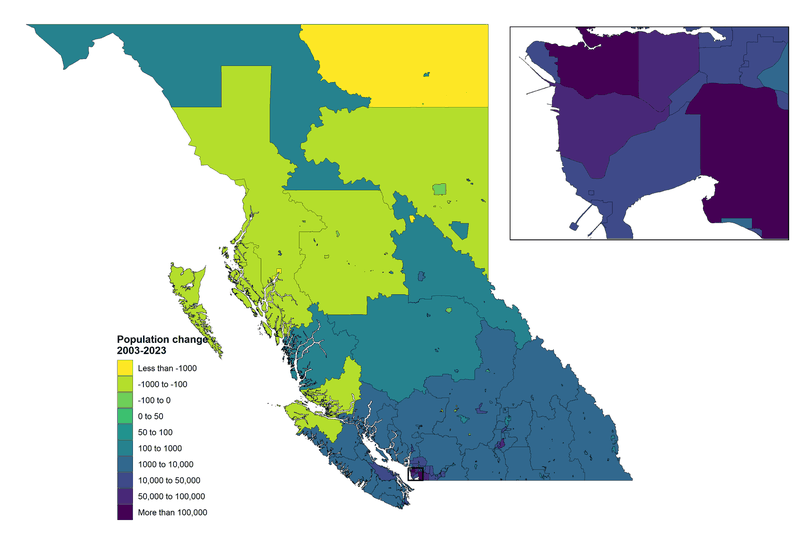
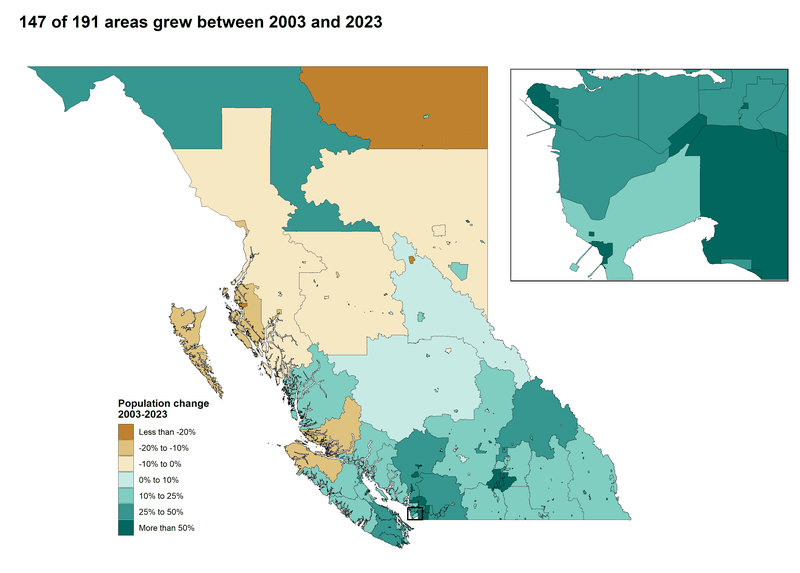
Add the BC electricity load project and refresh two others
- New project page and portfolio card for bc_electricity_load (Python):
  temperature response, weather-normalised annual load and next-day
  peak backtest, with findings, method, limits and data notes. Only
  charts and summaries are shown; BC Hydro's data is not openly
  licensed
- Population maps replaced with the new percent-change maps; page copy
  and findings updated (147 of 191 areas grew 2003-2023, 66 projected
  to shrink by 2046, Metro Vancouver's share of growth)
- Housing page adds the ownership cost drivers chart, its finding and
  a one-paragraph method note
- Phone-sized versions and thumbnails for the new figures; sitemap
  lists the new page

diff --git a/bc-electricity-load.html b/bc-electricity-load.html
@@ -1,0 +1,124 @@
+<!DOCTYPE html>
+<html lang="en">
+<head>
+  <meta charset="UTF-8" />
+  <meta name="viewport" content="width=device-width, initial-scale=1.0" />
+  <title>Electricity load, weather and next-day peaks in BC | Ata Malfuzi</title>
+  <meta name="description" content="How much of British Columbia's electricity load growth since 2002 comes from the weather, and how well next-day peaks can be forecast. Built in Python from public data." />
+  <meta property="og:title" content="Electricity load, weather and next-day peaks in BC | Ata Malfuzi" />
+  <meta property="og:description" content="How much of British Columbia's electricity load growth since 2002 comes from the weather, and how well next-day peaks can be forecast. Built in Python from public data." />
+  <meta property="og:type" content="website" />
+  <meta property="og:url" content="https://atamalfuzi.github.io/bc-electricity-load.html" />
+  <meta property="og:image" content="https://atamalfuzi.github.io/ata-malfuzi.jpg" />
+  <meta name="twitter:card" content="summary" />
+  <link rel="canonical" href="https://atamalfuzi.github.io/bc-electricity-load.html" />
+  <link rel="icon" href="favicon.svg" type="image/svg+xml" />
+  <link rel="stylesheet" href="style.css" />
+</head>
+<body>
+
+<a class="skip-link" href="#main">Skip to content</a>
+
+<nav class="nav">
+  <div class="nav-inner container">
+    <a href="index.html" class="nav-logo">Ata Malfuzi</a>
+    <button class="hamburger" id="hamburger" aria-label="Menu" aria-expanded="false" aria-controls="nav-links">
+      <span></span><span></span><span></span>
+    </button>
+    <ul class="nav-links" id="nav-links">
+      <li><a href="index.html">Home</a></li>
+      <li><a href="about.html">About</a></li>
+      <li><a href="projects.html" class="active" aria-current="page">Portfolio</a></li>
+      <li><a href="research.html">Research</a></li>
+      <li><a href="contact.html">Contact</a></li>
+    </ul>
+  </div>
+</nav>
+
+<div class="container layout inner">
+  <aside class="profile" aria-label="Profile">
+    <img class="avatar" src="img/avatar.jpg" alt="Ata Malfuzi" width="280" height="280" />
+    <p class="profile-name">Ata Malfuzi</p>
+    <p class="profile-bio">Economist and data scientist</p>
+    <ul class="profile-links">
+      <li><a href="mailto:atamalfuzi@gmail.com"><svg class="icon" viewBox="0 0 24 24" aria-hidden="true"><rect x="3.5" y="5.5" width="17" height="13" rx="1.5"/><path d="m4 7 8 6 8-6"/></svg><span>Email</span></a></li>
+      <li><a href="https://linkedin.com/in/ata-malfuzi" target="_blank"><svg class="icon" viewBox="0 0 24 24" aria-hidden="true"><rect x="3.5" y="3.5" width="17" height="17" rx="2.5"/><path d="M8 10.5v6M8 7.6v.1M11.5 16.5v-6M11.5 13c0-1.6 1-2.6 2.4-2.6s2.1 1 2.1 2.6v3.5"/></svg><span>LinkedIn</span></a></li>
+      <li><a href="https://github.com/atamalfuzi" target="_blank"><svg class="icon" viewBox="0 0 24 24" aria-hidden="true"><path d="m8.5 8-4 4 4 4M15.5 8l4 4-4 4M13.5 6l-3 12"/></svg><span>GitHub</span></a></li>
+      <li><a href="https://scholar.google.com/citations?user=DN48TO8AAAAJ" target="_blank"><svg class="icon" viewBox="0 0 24 24" aria-hidden="true"><path d="M2.5 9.5 12 5l9.5 4.5L12 14z"/><path d="M6.5 11.6V16c1.5 1.4 3.4 2 5.5 2s4-.6 5.5-2v-4.4"/></svg><span>Google Scholar</span></a></li>
+      <li><a href="https://econlaunch.ca/#mentoring-book" target="_blank"><svg class="icon" viewBox="0 0 24 24" aria-hidden="true"><rect x="3.5" y="5" width="17" height="15" rx="1.5"/><path d="M3.5 9.5h17M8 3v4M16 3v4"/></svg><span>Book a career chat</span></a></li>
+    </ul>
+    <ul class="profile-facts">
+      <li><svg class="icon" viewBox="0 0 24 24" aria-hidden="true"><path d="M12 21s-6-5.6-6-11a6 6 0 1 1 12 0c0 5.4-6 11-6 11z"/><circle cx="12" cy="10" r="2.2"/></svg><span>Vancouver, BC</span></li>
+      <li><svg class="icon" viewBox="0 0 24 24" aria-hidden="true"><rect x="3.5" y="7.5" width="17" height="12" rx="1.5"/><path d="M9 7.5V6a1.5 1.5 0 0 1 1.5-1.5h3A1.5 1.5 0 0 1 15 6v1.5M3.5 12.5h17"/></svg><span>Environment and Climate Change Canada</span></li>
+      <li><svg class="icon" viewBox="0 0 24 24" aria-hidden="true"><path d="M3 9.5 12 5l9 4.5M5 10.5v6.5M9.7 10.5v6.5M14.3 10.5v6.5M19 10.5v6.5M3.5 19.5h17"/></svg><span>SESIT Lab, University of Victoria</span></li>
+    </ul>
+  </aside>
+
+<main id="main">
+<article class="project">
+  <div class="page-top">
+    <a class="back" href="projects.html">Back to portfolio</a>
+    <h1>Electricity load, weather and next-day peaks in BC</h1>
+    <p class="lead">An independent look at British Columbia's electricity load since 2002, built from public data in Python. It asks how much of the growth comes from the weather, and how well tomorrow's peak can be forecast from what is known today.</p>
+    <div class="links-row"><a href="https://github.com/atamalfuzi/bc_electricity_load" target="_blank">Code on GitHub</a><a href="https://github.com/atamalfuzi/bc_electricity_load/blob/main/output/annual_load.csv" target="_blank">Annual table (CSV)</a><a href="https://github.com/atamalfuzi/bc_electricity_load/blob/main/output/backtest_summary.csv" target="_blank">Backtest table (CSV)</a></div>
+  </div>
+
+  <figure>
+    <img src="img/load-temperature-response.png" srcset="img/load-temperature-response-800.png 800w, img/load-temperature-response.png 1600w" sizes="(max-width: 860px) calc(100vw - 2.5rem), 816px" alt="Line chart of average workday load against daily mean temperature at Vancouver airport for 2002-2009, 2010-2017 and 2018-2026. Load rises as it gets colder in every period, and in 2018-2026 it also rises clearly on hot days." width="1600" height="1067" />
+    <figcaption>Average workday load by daily mean temperature at Vancouver airport, for three periods.</figcaption>
+  </figure>
+
+  <section class="section">
+    <h2>What it shows</h2>
+    <ul>
+      <li>Growth is structural, not weather. Weather-normalised load rose from 56.6 TWh in 2002 to 67.4 TWh in 2025 (+19%). Weather moved any single year by less than 0.8 TWh.</li>
+      <li>Cold drives load, and hot days now matter too. A day 1 °C colder at all four airports (below 18 °C) adds about 92 MW in 2018-2026, up from 78 MW in 2002-2009. A day 1 °C hotter (above 18 °C) adds about 193 MW, up from 91 MW. This fits the spread of air conditioning and heat pumps, though the data cannot show the cause.</li>
+      <li>Next-day peaks can be forecast to within about 2.3%. Over 2021 to September 2026, gradient boosting and a linear regression on the same inputs both missed the daily peak by 2.3% on average, against 5.4% for the peak a week earlier. The linear model does as well as the boosted trees, and the 80% intervals covered 78% of days.</li>
+    </ul>
+  </section>
+
+  <figure>
+    <img src="img/load-annual.png" srcset="img/load-annual-800.png 800w, img/load-annual.png 1600w" sizes="(max-width: 860px) calc(100vw - 2.5rem), 816px" alt="Line chart of BC annual electricity load, actual and weather-normalised, 2002 to 2025. The two lines track each other closely and rise from about 57 to 67 TWh." width="1600" height="978" loading="lazy" />
+    <figcaption>Annual load, actual and with each year's weather replaced by the average weather of all years, 2002-2025.</figcaption>
+  </figure>
+
+  <section class="section">
+    <h2>How it works</h2>
+    <p>Hourly load is turned into each day's average and peak. A least-squares regression of daily average load on a separate level for each year, heating and cooling degrees below and above 18 °C at the Vancouver, Victoria, Kamloops and Prince George airports (with separate effects for 2002-2009, 2010-2017 and 2018-2026), and calendar effects explains 96% of the daily variation. Each year's weather-normalised load replaces that year's weather effect with the effect of the average weather over 2002-2025.</p>
+    <p>The forecast test is a rolling-origin backtest: each year from 2021 to 2026 is forecast by models trained only on earlier years, using what is known the evening before. It compares the peak on the same day last week, a linear regression and gradient boosting. The 80% interval is the forecast plus or minus the 80th percentile of the errors the model made the year before.</p>
+  </section>
+
+  <figure>
+    <img src="img/load-forecast-backtest.png" srcset="img/load-forecast-backtest-800.png 800w, img/load-forecast-backtest.png 1600w" sizes="(max-width: 860px) calc(100vw - 2.5rem), 816px" alt="Two panels: forecast error by test year, about 2.3% for the linear regression and gradient boosting against about 5% for last week's peak; and daily peaks in winter 2025-26 with the forecast and its 80% interval." width="1600" height="733" loading="lazy" />
+    <figcaption>Next-day peak forecast error by test year, and winter 2025-26 forecasts with their 80% interval.</figcaption>
+  </figure>
+
+  <section class="section">
+    <h2>Limits</h2>
+    <ul>
+      <li>The backtest uses each day's actual temperatures, so it is optimistic. With the previous day's temperatures instead, the average error rises from 2.3% to 2.5%; a real day-ahead forecast would fall between the two.</li>
+      <li>Four airports stand in for the province, with no population weighting.</li>
+      <li>"Structural" is everything that is not weather: population and economic growth, the 2009 recession, the pandemic, industrial customers opening and closing, and electrification. The year levels do not separate these.</li>
+      <li>Days above 18 °C are rare in BC, and 2018-2026 includes the 2021 heat dome, so the hot-weather effects are less precise than the cold-weather ones.</li>
+    </ul>
+  </section>
+
+  <section class="section notes">
+    <h2>Data</h2>
+    <p>Hourly balancing authority load from BC Hydro's historical transmission data, 2002 to September 2026. BC Hydro's data is not openly licensed, so the repository and this page show only charts and summaries made from it. Daily mean temperatures at four airports from Government of Canada daily climate data. Analysis in Python with pandas and scikit-learn; code under the MIT licence.</p>
+    <p>Contains information licensed under the Open Government Licence - Canada.</p>
+  </section>
+</article>
+</main>
+</div>
+
+<footer class="footer">
+  <div class="container footer-inner">
+    <span>&copy; <span class="yr">2026</span> Ata Malfuzi, Vancouver</span>
+    <span>Economist and data scientist</span>
+  </div>
+</footer>
+
+<script src="main.js"></script>
+</body>
+</html>

diff --git a/bc-population-change.html b/bc-population-change.html
@@ -4,9 +4,9 @@
   <meta charset="UTF-8" />
   <meta name="viewport" content="width=device-width, initial-scale=1.0" />
   <title>Population change in BC municipalities | Ata Malfuzi</title>
-  <meta name="description" content="Maps of estimated (2003-2023) and projected (2023-2046) population change across British Columbia's municipalities, made in R from open data." />
+  <meta name="description" content="Maps of percent population change in every British Columbia municipality: estimated 2003-2023 and projected 2023-2046, made in R from open data." />
   <meta property="og:title" content="Population change in BC municipalities | Ata Malfuzi" />
-  <meta property="og:description" content="Maps of estimated (2003-2023) and projected (2023-2046) population change across British Columbia's municipalities, made in R from open data." />
+  <meta property="og:description" content="Maps of percent population change in every British Columbia municipality: estimated 2003-2023 and projected 2023-2046, made in R from open data." />
   <meta property="og:type" content="website" />
   <meta property="og:url" content="https://atamalfuzi.github.io/bc-population-change.html" />
   <meta property="og:image" content="https://atamalfuzi.github.io/ata-malfuzi.jpg" />
@@ -59,23 +59,33 @@
   <div class="page-top">
     <a class="back" href="projects.html">Back to portfolio</a>
     <h1>Population change in BC municipalities</h1>
-    <p class="lead">Maps of absolute population change across British Columbia's municipalities: estimated change from 2003 to 2023, and projected change from 2023 to 2046. Each map has an inset on Metro Vancouver, where most of the growth is.</p>
+    <p class="lead">Where has British Columbia's population grown, and where is it projected to shrink? These maps show the percent change in population for every municipality: estimated change from 2003 to 2023, and BC Stats' projection from 2023 to 2046. Each map has an inset on Metro Vancouver.</p>
     <div class="links-row"><a href="https://github.com/atamalfuzi/bc_pop_change_map" target="_blank">Code on GitHub</a></div>
   </div>
 
   <figure>
-    <img src="img/bc-population-2003-2023.png" srcset="img/bc-population-2003-2023-800.png 800w, img/bc-population-2003-2023.png 1600w" sizes="(max-width: 860px) calc(100vw - 2.5rem), 816px" alt="Map of British Columbia shading each municipality by estimated population change from 2003 to 2023, with a Metro Vancouver inset." width="1600" height="1067" />
-    <figcaption>Estimated population change by municipality, 2003-2023.</figcaption>
+    <img src="img/bc-population-2003-2023.png" srcset="img/bc-population-2003-2023-800.png 800w, img/bc-population-2003-2023.png 1600w" sizes="(max-width: 860px) calc(100vw - 2.5rem), 816px" alt="Map of British Columbia shading each municipality by percent population change from 2003 to 2023, brown for loss and teal for growth, with a Metro Vancouver inset. Most areas grew; losses are mostly small northern and coastal communities." width="1600" height="1147" />
+    <figcaption>Estimated percent change in population by municipality, 2003-2023.</figcaption>
   </figure>
 
+  <section class="section">
+    <h2>What it shows</h2>
+    <ul>
+      <li>Growth was widespread: 147 of 191 areas grew between 2003 and 2023. Langford more than doubled (+160%). Most of the areas that lost people are small communities in the north and along the coast.</li>
+      <li>Growth is still concentrated in absolute numbers: Metro Vancouver gained 61% of BC's added residents from 2003 to 2023 and is projected to gain 65% of them by 2046.</li>
+      <li>The projection is less even: 66 of 191 areas are projected to shrink by 2046, across most of the north and the central interior.</li>
+    </ul>
+  </section>
+
   <figure>
-    <img src="img/bc-population-2023-2046.png" srcset="img/bc-population-2023-2046-800.png 800w, img/bc-population-2023-2046.png 1600w" sizes="(max-width: 860px) calc(100vw - 2.5rem), 816px" alt="Map of British Columbia shading each municipality by projected population change from 2023 to 2046, with a Metro Vancouver inset." width="1600" height="1067" loading="lazy" />
-    <figcaption>Projected population change by municipality, 2023-2046.</figcaption>
+    <img src="img/bc-population-2023-2046.png" srcset="img/bc-population-2023-2046-800.png 800w, img/bc-population-2023-2046.png 1600w" sizes="(max-width: 860px) calc(100vw - 2.5rem), 816px" alt="Map of British Columbia shading each municipality by projected percent population change from 2023 to 2046, brown for loss and teal for growth, with a Metro Vancouver inset. Much of the north and central interior is projected to shrink." width="1600" height="1147" loading="lazy" />
+    <figcaption>Projected percent change in population by municipality, 2023-2046.</figcaption>
   </figure>
 
   <section class="section">
     <h2>How it was made</h2>
     <p>The script downloads the BC Sub-Provincial Population Estimates and Projections for municipalities (census subdivisions) and takes boundaries from the bcmaps package (2021 census subdivisions, clipped to the coastline).</p>
+    <p>Percent change is shown so that a small town and a big city read on the same scale; colours run brown for loss and teal for growth, centred on zero. Percentages swing more where few people live, as in the large unincorporated areas of the north.</p>
     <p>Areas outside municipalities are published as one "Unincorporated Areas" total per regional district, so the script merges those census subdivisions into one polygon per regional district before joining the data to the map.</p>
     <p>Made in R with sf, bcmaps, ggplot2 and cowplot; code under the MIT licence.</p>
   </section>

diff --git a/rent-and-mortgage-burden.html b/rent-and-mortgage-burden.html
@@ -73,6 +73,7 @@
     <ul>
       <li>Rent takes a bigger share of the median family's income than in 2008 in 23 of 25 areas. Vancouver is highest at 24%, up from 20%. Only Fort St. John and Dawson Creek moved the other way.</li>
       <li>Owning was already more expensive than renting, and the 2022-2023 rate increases widened the gap. The payment on a median-priced home went from about 38% to 50% of the median family's income in Vancouver, and from about 30% to over 40% in Victoria and Kelowna.</li>
+      <li>The two periods had different causes. From 2016 to 2021, higher prices added 11 to 12 points in all three cities, and rising incomes took back half to two thirds of that. From 2021 to 2023, higher mortgage rates added 10 to 12 points, most of the rise in each city.</li>
     </ul>
   </section>
 
@@ -81,10 +82,16 @@
     <figcaption>Mortgage payment on a median-priced home and average rent, as a share of median family income, 2016-2023.</figcaption>
   </figure>
 
+  <figure>
+    <img src="img/housing-own-cost-drivers.png" srcset="img/housing-own-cost-drivers-800.png 800w, img/housing-own-cost-drivers.png 1600w" sizes="(max-width: 860px) calc(100vw - 2.5rem), 816px" alt="Bar chart for Vancouver, Victoria and Kelowna: from 2016 to 2021 house prices added about 11 to 12 points to the ownership cost and rising incomes took back part of it; from 2021 to 2023 mortgage rates added about 10 to 12 points." width="1600" height="655" loading="lazy" />
+    <figcaption>What changed the ownership cost: the change in the mortgage payment as a share of median family income, split into house price, mortgage rate and family income, 2016-2021 and 2021-2023.</figcaption>
+  </figure>
+
   <section class="section">
     <h2>How it is measured</h2>
     <p>Rent-to-income is 12 times the average two-bedroom rent, divided by the median total income of census families. It covers 25 metropolitan areas and agglomerations from 2008, the first year with income data for every smaller city.</p>
     <p>Ownership cost-to-income is 12 times the monthly payment on a mortgage for 80% of the median sale price, over 25 years at that year's average 5-year conventional rate, divided by the same income. It covers Vancouver, Victoria and Kelowna from 2016, when the property transfer data start.</p>
+    <p>The ownership ratio is proportional to price times the payment factor for the rate, divided by income, so its change in logs splits exactly into a price, a rate and an income part. Each part's share of the log change is applied to the change in percentage points, so the three parts add up to the net change.</p>
   </section>
 
   <section class="section">

diff --git a/index.html b/index.html
@@ -81,6 +81,15 @@
   <div class="section-head"><h2>Selected work</h2><a href="projects.html">All work</a></div>
   <ul class="work-rows">
     <li>
+      <a href="bc-electricity-load.html" tabindex="-1" aria-hidden="true"><img src="img/thumb-electricity.jpg" srcset="img/thumb-electricity.jpg 400w, img/thumb-electricity-640.jpg 640w" sizes="(max-width: 560px) calc(100vw - 2.5rem), 184px" alt="" width="400" height="267" /></a>
+      <div>
+        <h3><a href="bc-electricity-load.html">Electricity load, weather and next-day peaks in BC</a></h3>
+        <p class="meta">Open data analysis in Python, 2026</p>
+        <p>BC's load grew 19% from 2002 to 2025 and the weather explains almost none of it. Next-day peaks can be forecast to within about 2.3%.</p>
+        <div class="links-row"><a href="bc-electricity-load.html">Project page</a><a href="https://github.com/atamalfuzi/bc_electricity_load" target="_blank">Code</a></div>
+      </div>
+    </li>
+    <li>
       <a href="rent-and-mortgage-burden.html" tabindex="-1" aria-hidden="true"><img src="img/thumb-housing.jpg" srcset="img/thumb-housing.jpg 400w, img/thumb-housing-640.jpg 640w" sizes="(max-width: 560px) calc(100vw - 2.5rem), 184px" alt="" width="400" height="267" /></a>
       <div>
         <h3><a href="rent-and-mortgage-burden.html">Rent and mortgage burden in BC cities</a></h3>
@@ -93,8 +102,8 @@
       <a href="bc-population-change.html" tabindex="-1" aria-hidden="true"><img src="img/thumb-population.jpg" srcset="img/thumb-population.jpg 400w, img/thumb-population-640.jpg 640w" sizes="(max-width: 560px) calc(100vw - 2.5rem), 184px" alt="" width="400" height="267" /></a>
       <div>
         <h3><a href="bc-population-change.html">Population change in BC municipalities</a></h3>
-        <p class="meta">Open data maps in R, 2024</p>
-        <p>Estimated change from 2003 to 2023 and projected change to 2046, for every municipality.</p>
+        <p class="meta">Open data maps in R, 2024, updated 2026</p>
+        <p>Percent change in population for every municipality, from 2003 to 2023 and projected to 2046. 147 of 191 areas grew; 66 are projected to shrink.</p>
         <div class="links-row"><a href="bc-population-change.html">Project page</a><a href="https://github.com/atamalfuzi/bc_pop_change_map" target="_blank">Code</a></div>
       </div>
     </li>

diff --git a/projects.html b/projects.html
@@ -64,6 +64,15 @@
   <h2>Open work</h2>
   <ul class="work-rows">
     <li>
+      <a href="bc-electricity-load.html" tabindex="-1" aria-hidden="true"><img src="img/thumb-electricity.jpg" srcset="img/thumb-electricity.jpg 400w, img/thumb-electricity-640.jpg 640w" sizes="(max-width: 560px) calc(100vw - 2.5rem), 184px" alt="" width="400" height="267" /></a>
+      <div>
+        <h3><a href="bc-electricity-load.html">Electricity load, weather and next-day peaks in BC</a></h3>
+        <p class="meta">Open data analysis in Python, 2026</p>
+        <p>BC's load grew 19% from 2002 to 2025 and the weather explains almost none of it. Next-day peaks can be forecast to within about 2.3%.</p>
+        <div class="links-row"><a href="bc-electricity-load.html">Project page</a><a href="https://github.com/atamalfuzi/bc_electricity_load" target="_blank">Code</a></div>
+      </div>
+    </li>
+    <li>
       <a href="rent-and-mortgage-burden.html" tabindex="-1" aria-hidden="true"><img src="img/thumb-housing.jpg" srcset="img/thumb-housing.jpg 400w, img/thumb-housing-640.jpg 640w" sizes="(max-width: 560px) calc(100vw - 2.5rem), 184px" alt="" width="400" height="267" /></a>
       <div>
         <h3><a href="rent-and-mortgage-burden.html">Rent and mortgage burden in BC cities</a></h3>
@@ -76,8 +85,8 @@
       <a href="bc-population-change.html" tabindex="-1" aria-hidden="true"><img src="img/thumb-population.jpg" srcset="img/thumb-population.jpg 400w, img/thumb-population-640.jpg 640w" sizes="(max-width: 560px) calc(100vw - 2.5rem), 184px" alt="" width="400" height="267" /></a>
       <div>
         <h3><a href="bc-population-change.html">Population change in BC municipalities</a></h3>
-        <p class="meta">Open data maps in R, 2024</p>
-        <p>Estimated change from 2003 to 2023 and projected change to 2046, for every municipality.</p>
+        <p class="meta">Open data maps in R, 2024, updated 2026</p>
+        <p>Percent change in population for every municipality, from 2003 to 2023 and projected to 2046. 147 of 191 areas grew; 66 are projected to shrink.</p>
         <div class="links-row"><a href="bc-population-change.html">Project page</a><a href="https://github.com/atamalfuzi/bc_pop_change_map" target="_blank">Code</a></div>
       </div>
     </li>
